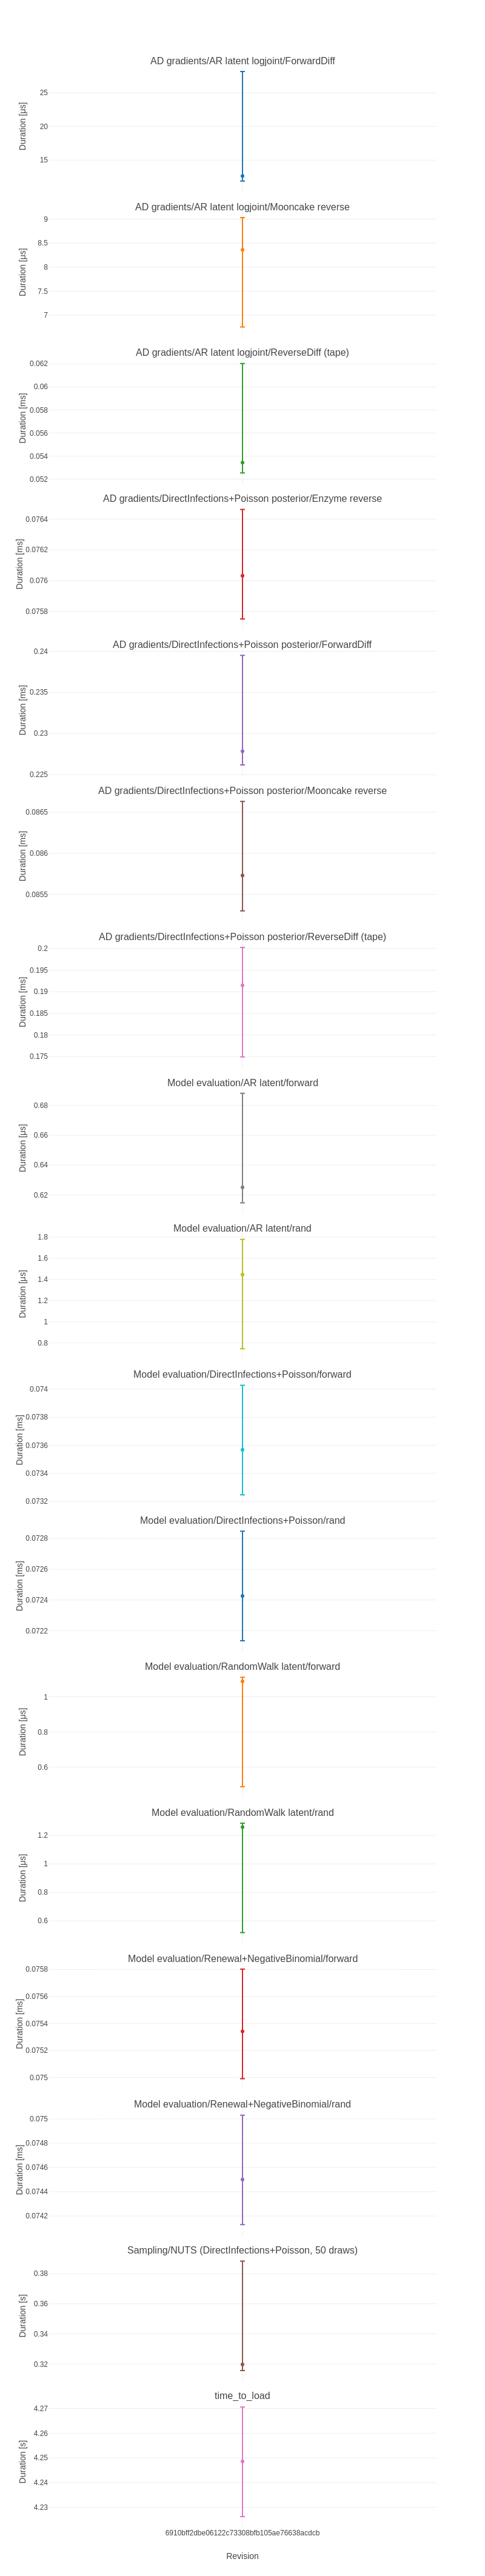
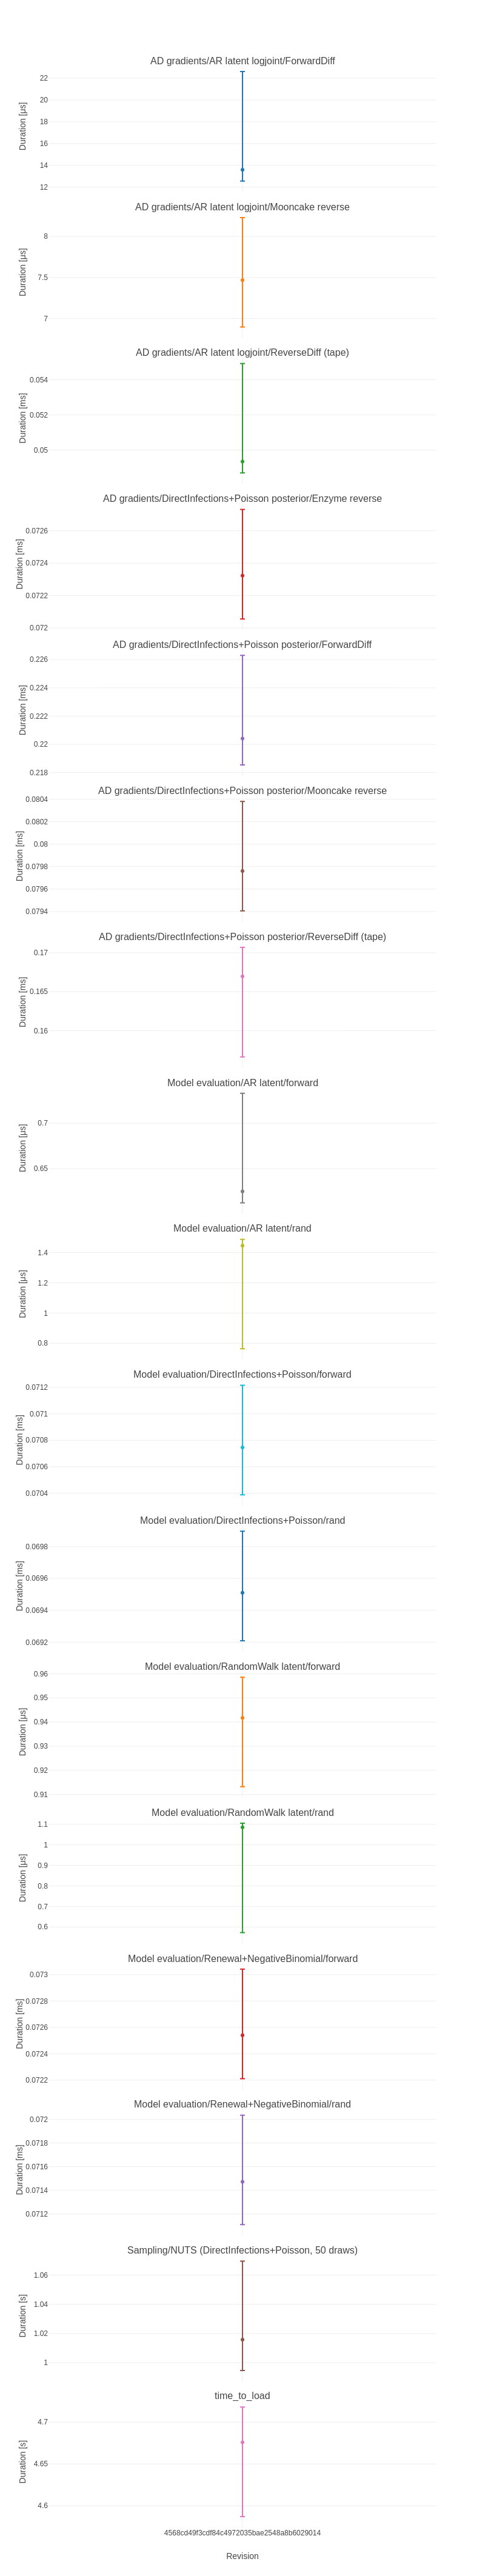
Deploying to benchmarks from @ EpiAware/ComposableTuringIDModels.jl@4568cd49f3cdf84c4972035bae2548a8b6029014 🚀

diff --git a/history/table.md b/history/table.md
@@ -1,24 +1,24 @@
-|                                                                    | 6910bff2dbe061...   |
+|                                                                    | 4568cd49f3cdf8...   |
 |:-------------------------------------------------------------------|:-------------------:|
-| AD gradients/AR latent logjoint/ForwardDiff                        | 12.6 ± 16 μs        |
-| AD gradients/AR latent logjoint/Mooncake reverse                   | 8.36 ± 2.3 μs       |
-| AD gradients/AR latent logjoint/ReverseDiff (tape)                 | 0.0534 ± 0.0095 ms  |
-| AD gradients/DirectInfections+Poisson posterior/Enzyme reverse     | 0.076 ± 0.00071 ms  |
-| AD gradients/DirectInfections+Poisson posterior/ForwardDiff        | 0.228 ± 0.013 ms    |
-| AD gradients/DirectInfections+Poisson posterior/Mooncake reverse   | 0.0857 ± 0.0013 ms  |
-| AD gradients/DirectInfections+Poisson posterior/ReverseDiff (tape) | 0.191 ± 0.025 ms    |
-| Model evaluation/AR latent/forward                                 | 0.625 ± 0.073 μs    |
-| Model evaluation/AR latent/rand                                    | 1.45 ± 1 μs         |
-| Model evaluation/DirectInfections+Poisson/forward                  | 0.0736 ± 0.00078 ms |
-| Model evaluation/DirectInfections+Poisson/rand                     | 0.0724 ± 0.00071 ms |
-| Model evaluation/RandomWalk latent/forward                         | 1.09 ± 0.62 μs      |
-| Model evaluation/RandomWalk latent/rand                            | 1.26 ± 0.77 μs      |
-| Model evaluation/Renewal+NegativeBinomial/forward                  | 0.0753 ± 0.00081 ms |
-| Model evaluation/Renewal+NegativeBinomial/rand                     | 0.0745 ± 0.0009 ms  |
-| Sampling/NUTS (DirectInfections+Poisson, 50 draws)                 | 0.32 ± 0.073 s      |
-| time_to_load                                                       | 4.25 ± 0.044 s      |
+| AD gradients/AR latent logjoint/ForwardDiff                        | 13.6 ± 10 μs        |
+| AD gradients/AR latent logjoint/Mooncake reverse                   | 7.47 ± 1.3 μs       |
+| AD gradients/AR latent logjoint/ReverseDiff (tape)                 | 0.0494 ± 0.0062 ms  |
+| AD gradients/DirectInfections+Poisson posterior/Enzyme reverse     | 0.0723 ± 0.00067 ms |
+| AD gradients/DirectInfections+Poisson posterior/ForwardDiff        | 0.22 ± 0.0078 ms    |
+| AD gradients/DirectInfections+Poisson posterior/Mooncake reverse   | 0.0798 ± 0.00097 ms |
+| AD gradients/DirectInfections+Poisson posterior/ReverseDiff (tape) | 0.167 ± 0.014 ms    |
+| Model evaluation/AR latent/forward                                 | 0.625 ± 0.12 μs     |
+| Model evaluation/AR latent/rand                                    | 1.44 ± 0.72 μs      |
+| Model evaluation/DirectInfections+Poisson/forward                  | 0.0707 ± 0.00083 ms |
+| Model evaluation/DirectInfections+Poisson/rand                     | 0.0695 ± 0.00069 ms |
+| Model evaluation/RandomWalk latent/forward                         | 0.942 ± 0.045 μs    |
+| Model evaluation/RandomWalk latent/rand                            | 1.09 ± 0.53 μs      |
+| Model evaluation/Renewal+NegativeBinomial/forward                  | 0.0725 ± 0.00083 ms |
+| Model evaluation/Renewal+NegativeBinomial/rand                     | 0.0715 ± 0.00092 ms |
+| Sampling/NUTS (DirectInfections+Poisson, 50 draws)                 | 1.02 ± 0.075 s      |
+| time_to_load                                                       | 4.68 ± 0.13 s       |
 
-|                                                                    | 6910bff2dbe061...         |
+|                                                                    | 4568cd49f3cdf8...         |
 |:-------------------------------------------------------------------|:-------------------------:|
 | AD gradients/AR latent logjoint/ForwardDiff                        | 0.056 k allocs: 0.0508 MB |
 | AD gradients/AR latent logjoint/Mooncake reverse                   | 0.04 k allocs: 4.98 kB    |
@@ -35,6 +35,6 @@
 | Model evaluation/RandomWalk latent/rand                            | 15  allocs: 2.05 kB       |
 | Model evaluation/Renewal+NegativeBinomial/forward                  | 0.48 k allocs: 22.3 kB    |
 | Model evaluation/Renewal+NegativeBinomial/rand                     | 0.477 k allocs: 21.6 kB   |
-| Sampling/NUTS (DirectInfections+Poisson, 50 draws)                 | 0.913 M allocs: 0.114 GB  |
-| time_to_load                                                       | 0.149 k allocs: 11.2 kB   |
+| Sampling/NUTS (DirectInfections+Poisson, 50 draws)                 | 2.58 M allocs: 0.321 GB   |
+| time_to_load                                                       | 0.15 k allocs: 11.7 kB    |
 

diff --git a/history/README.md b/history/README.md
@@ -1,6 +1,6 @@
 # ComposableTuringIDModels.jl benchmark history
 
-Revisions: 6910bff2dbe06122c73308bfb105ae76638acdcb
+Revisions: 4568cd49f3cdf84c4972035bae2548a8b6029014
 
 See `table.md` for the ratio summary and the PNG
 files in this folder for per-benchmark timelines.